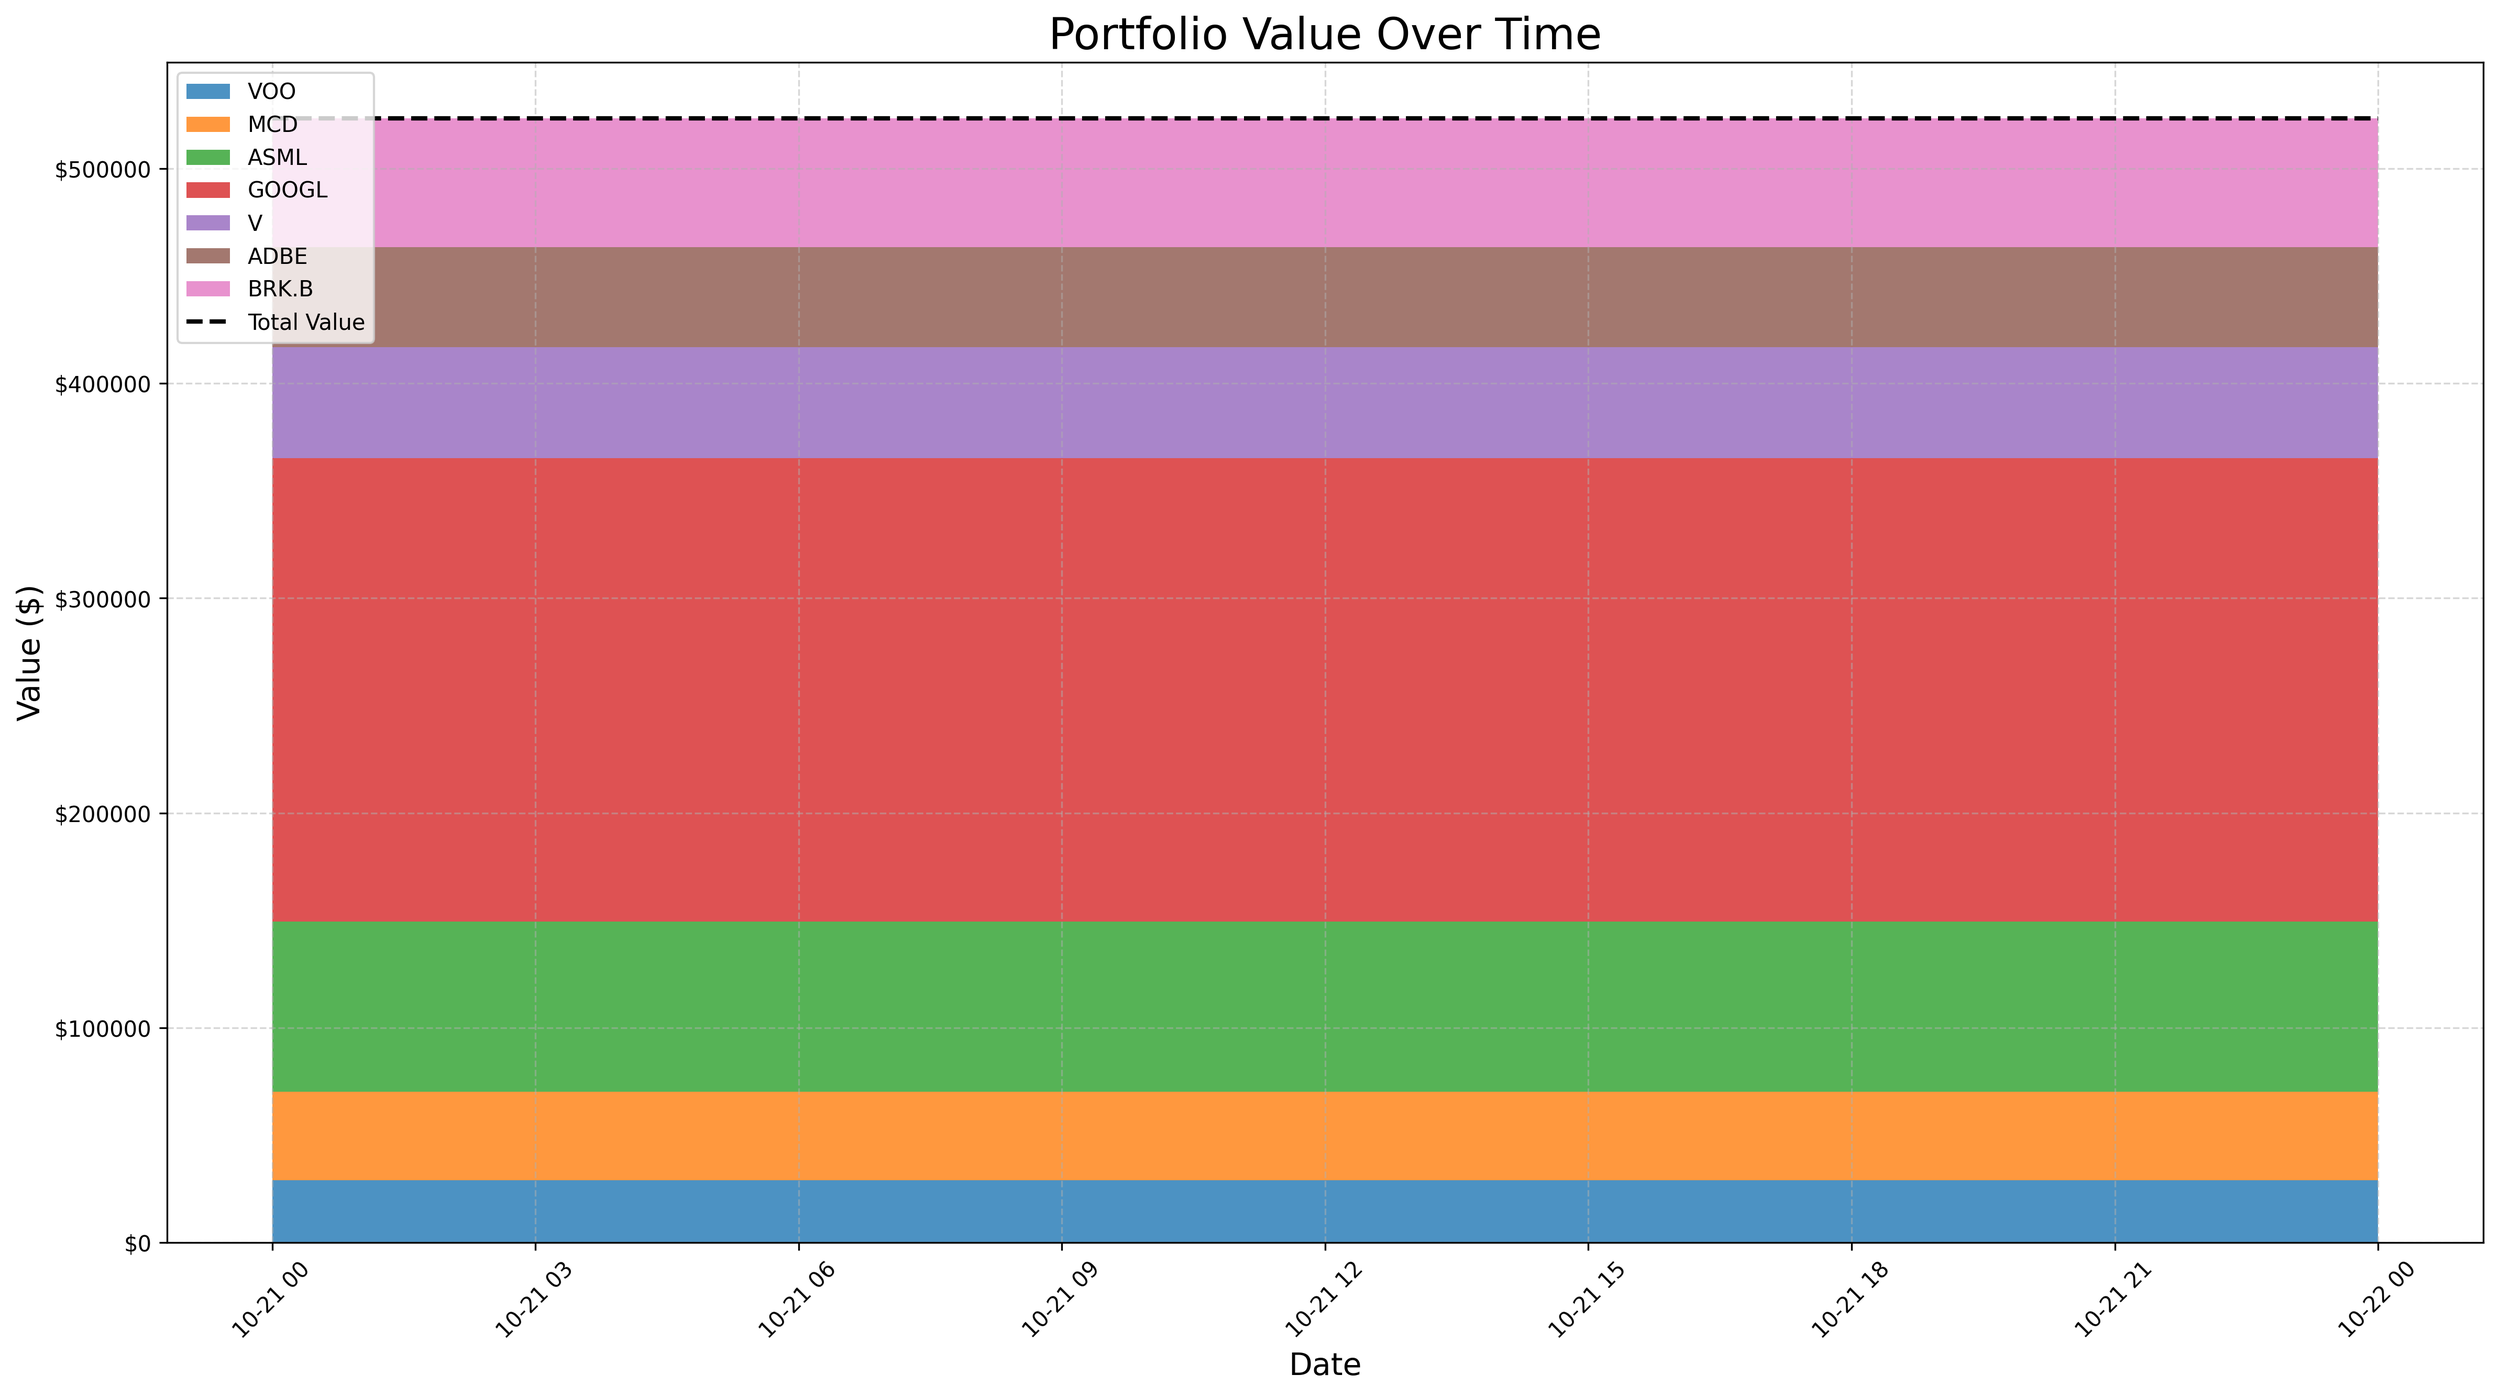
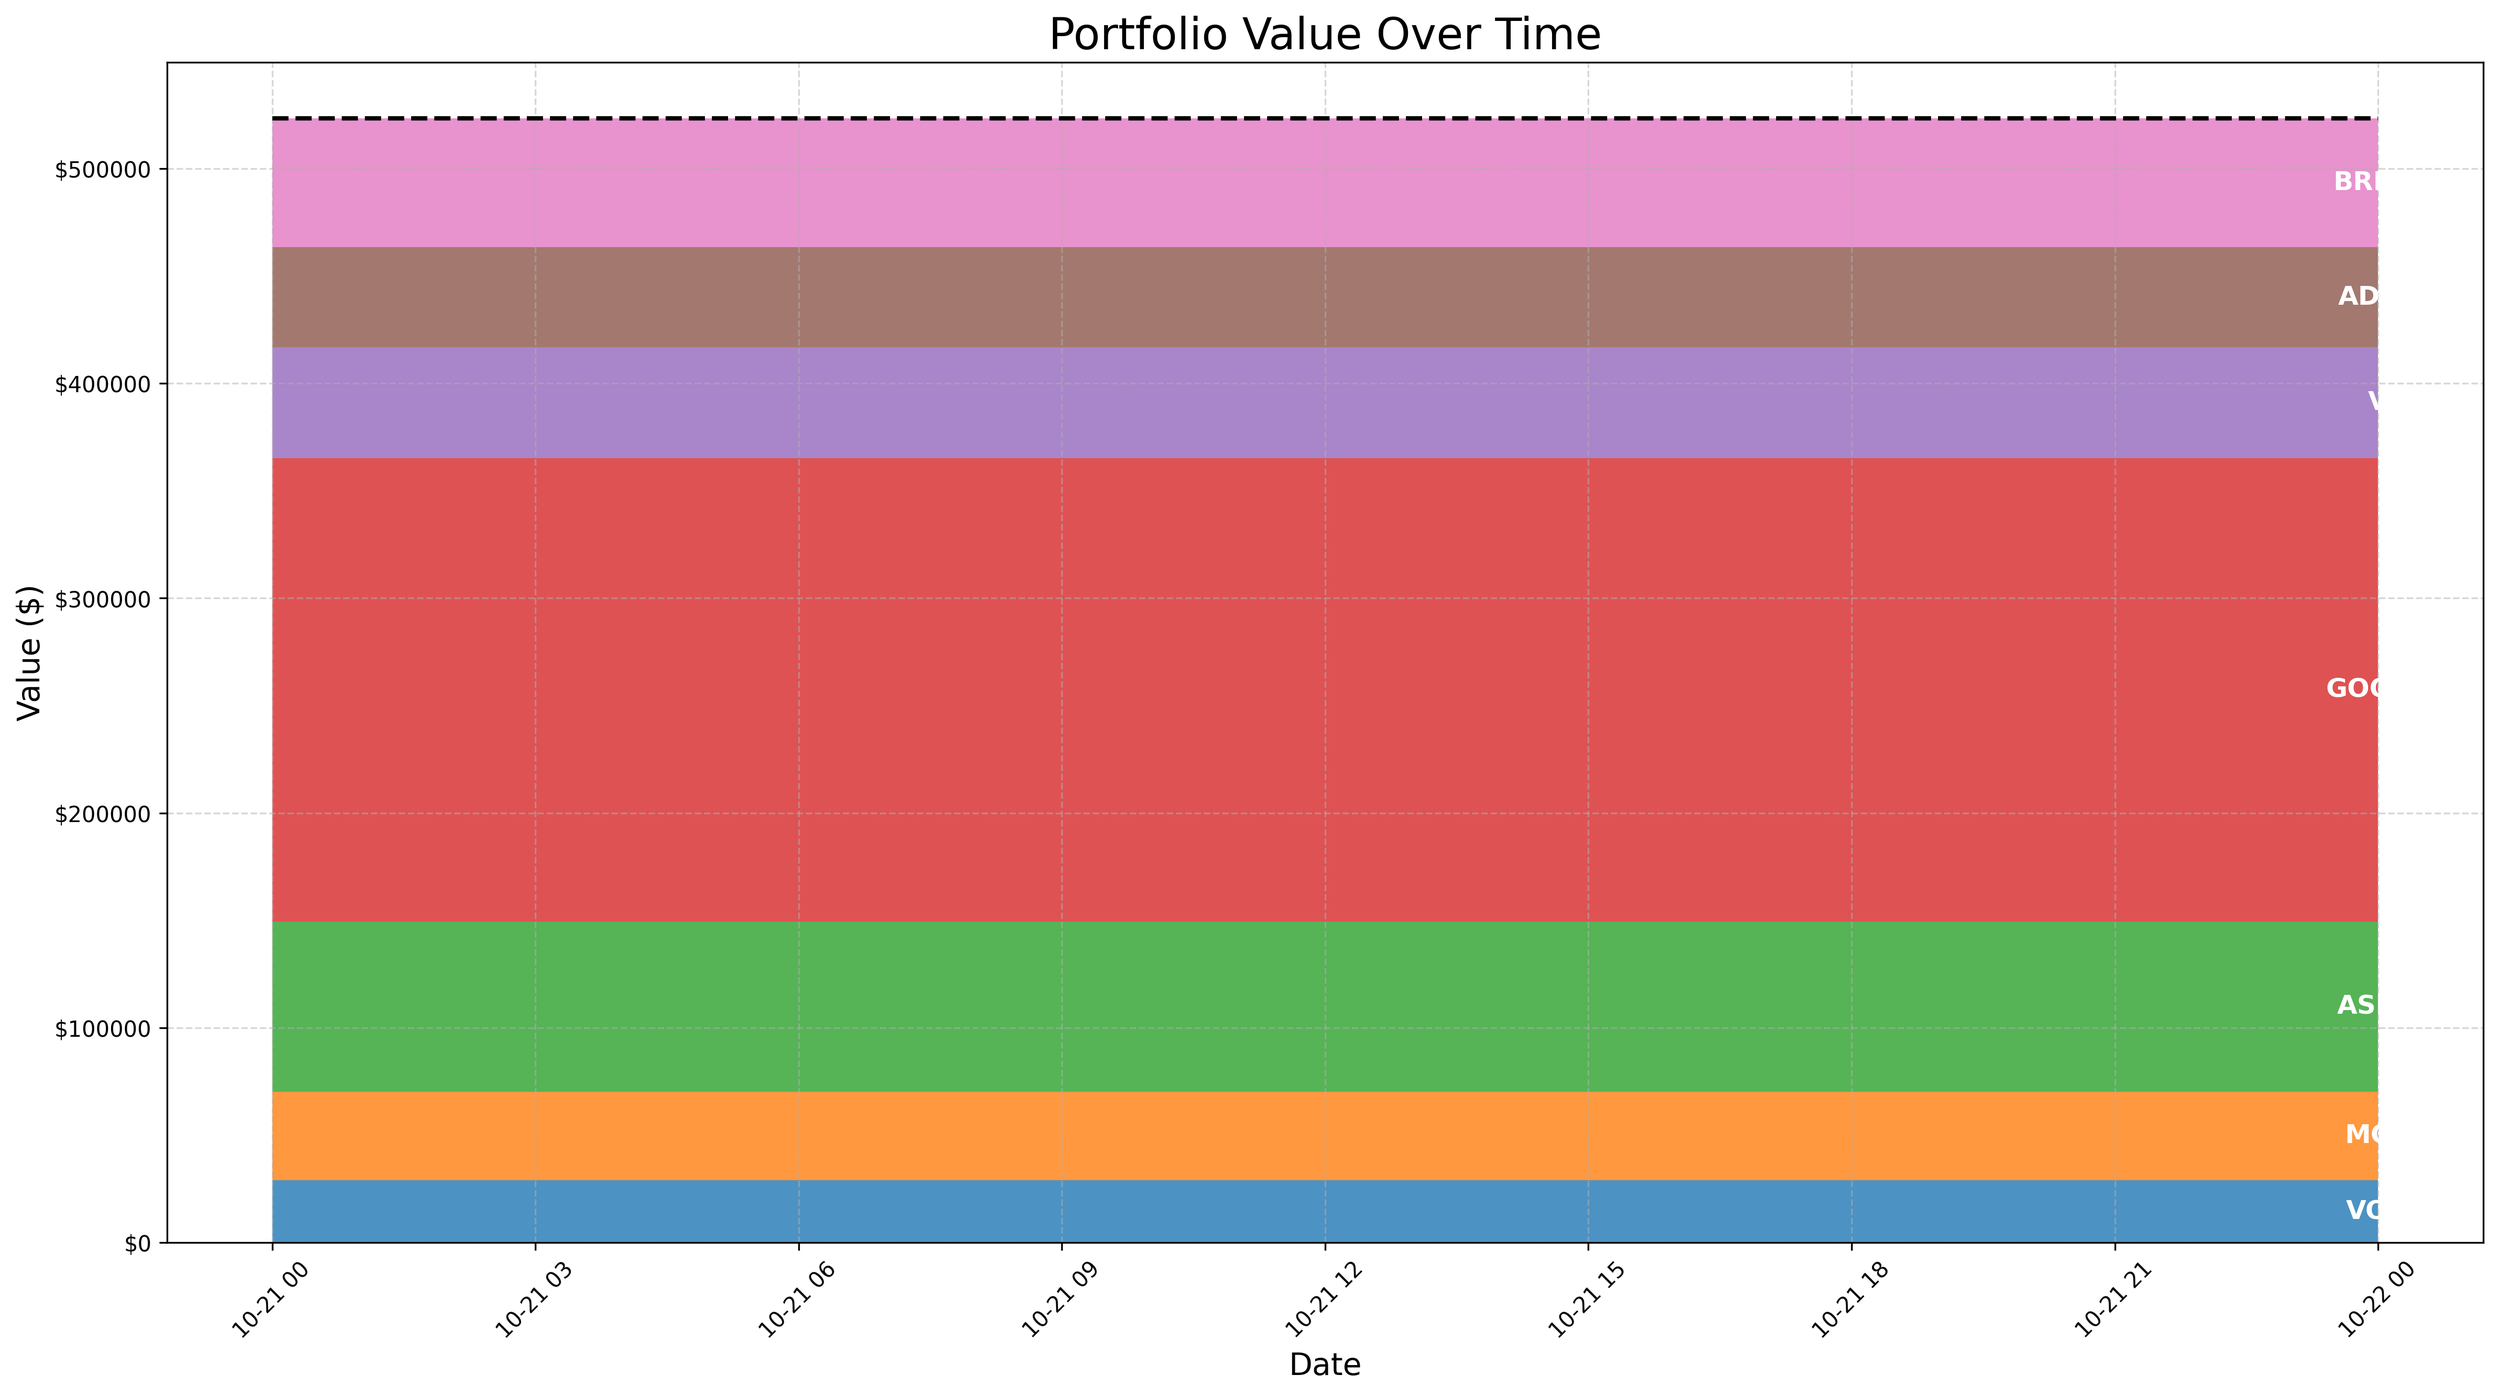
Automated portfolio update for 2025-10-22

diff --git a/main.py b/main.py
@@ -7,13 +7,14 @@ import matplotlib.pyplot as plt
 import matplotlib.ticker as mticker
 import configparser
 import sys
+import numpy as np  # <--- 新增导入 numpy 用于数学计算
 
 
 # ==============================================================================
-# 1. 配置加载模块
+# 1. 配置加载模块 (已更新)
 # ==============================================================================
 
-def load_config() -> Tuple[str, str, str, int, int, List[Tuple[str, float]]]:
+def load_config() -> Tuple[str, str, str, str, int, int, List[Tuple[str, float]]]:
     """
     从 config.ini 文件加载所有配置。
     如果文件不存在，会创建一个默认模板并退出。
@@ -27,7 +28,8 @@ def load_config() -> Tuple[str, str, str, int, int, List[Tuple[str, float]]]:
         default_config['General'] = {
             'api_key': 'YOUR_API_KEY_HERE',
             'history_file': 'portfolio_history.csv',
-            'plot_file': 'portfolio_chart.png'  # <--- 新增默认配置
+            'plot_file': 'portfolio_chart.png',
+            'pie_chart_file': 'portfolio_pie_chart.png'  # <--- 新增: 饼图文件名
         }
         default_config['Portfolio'] = {
             'AAPL': '100',
@@ -47,7 +49,8 @@ def load_config() -> Tuple[str, str, str, int, int, List[Tuple[str, float]]]:
     try:
         api_key = config.get('General', 'api_key')
         history_file = config.get('General', 'history_file')
-        plot_file = config.get('General', 'plot_file')  # <--- 新增: 读取图表文件名
+        plot_file = config.get('General', 'plot_file')
+        pie_chart_file = config.get('General', 'pie_chart_file')  # <--- 新增: 读取饼图文件名
         max_retries = config.getint('Settings', 'max_retries')
         retry_delay = config.getint('Settings', 'retry_delay_seconds')
 
@@ -59,20 +62,19 @@ def load_config() -> Tuple[str, str, str, int, int, List[Tuple[str, float]]]:
             print("错误: 配置文件中的 [Portfolio] 部分为空，请至少添加一只股票。")
             sys.exit()
 
-        # <--- 修改返回内容
-        return api_key, history_file, plot_file, max_retries, retry_delay, portfolio
+        return api_key, history_file, plot_file, pie_chart_file, max_retries, retry_delay, portfolio
 
     except (configparser.NoSectionError, configparser.NoOptionError, ValueError) as e:
         print(f"错误: 配置文件 'config.ini' 格式不正确或缺少必要项: {e}")
         sys.exit()
 
 
-# 在程序开始时加载所有配置
-API_KEY, HISTORY_FILE, PLOT_FILE, MAX_RETRIES, RETRY_DELAY, portfolio = load_config()
+# 在程序开始时加载所有配置 (已更新)
+API_KEY, HISTORY_FILE, PLOT_FILE, PIE_CHART_FILE, MAX_RETRIES, RETRY_DELAY, portfolio = load_config()
 
 
 # ==============================================================================
-# 2. 获取股票价格的核心函数
+# 2. 获取股票价格的核心函数 (无变化)
 # ==============================================================================
 def get_stock_price(ticker: str) -> Union[tuple[float, str], None]:
     url = f'https://www.alphavantage.co/query?function=GLOBAL_QUOTE&symbol={ticker}&apikey={API_KEY}'
@@ -99,7 +101,7 @@ def get_stock_price(ticker: str) -> Union[tuple[float, str], None]:
 
 
 # ==============================================================================
-# 3. 计算总价值并打印结果
+# 3. 计算总价值并打印结果 (无变化)
 # ==============================================================================
 def calculate_portfolio_value() -> tuple[float, dict, Union[str, None]]:
     total_value = 0.0
@@ -139,7 +141,7 @@ def calculate_portfolio_value() -> tuple[float, dict, Union[str, None]]:
 
 
 # ==============================================================================
-# 4. 将历史数据保存到文件
+# 4. 将历史数据保存到文件 (无变化)
 # ==============================================================================
 def save_history(date_to_save: str, value_to_save: float, stock_values: dict):
     if not os.path.exists(HISTORY_FILE):
@@ -165,7 +167,11 @@ def save_history(date_to_save: str, value_to_save: float, stock_values: dict):
         new_data_list = new_line_str.split(',')
         df.loc[date_to_save, 'total_value'] = float(new_data_list[1])
         for i, ticker in enumerate(all_tickers):
-            df.loc[date_to_save, ticker] = float(new_data_list[i + 2])
+            if ticker in df.columns:
+                df.loc[date_to_save, ticker] = float(new_data_list[i + 2])
+            else:  # 新增的 Ticker
+                df[ticker] = 0.0
+                df.loc[date_to_save, ticker] = float(new_data_list[i + 2])
         df.reset_index(inplace=True)
         print(f"\n提示: 日期 {date_to_save} 的数据已存在，将进行覆盖更新。")
     else:
@@ -178,12 +184,11 @@ def save_history(date_to_save: str, value_to_save: float, stock_values: dict):
 
 
 # ==============================================================================
-# 5. 绘制历史价值图表并保存到文件
+# 5. 绘制历史价值图表 (已更新)
 # ==============================================================================
-
 def plot_history_graph(output_filename: str):
     """
-    读取历史数据文件，绘制图表，并将其保存到指定的输出文件。
+    读取历史数据文件，绘制堆叠面积图，并将标签直接写在区域内。
     """
     if not os.path.exists(HISTORY_FILE):
         print("找不到历史数据文件，无法绘制图表。")
@@ -195,10 +200,35 @@ def plot_history_graph(output_filename: str):
         return
 
     stock_columns = [col for col in df.columns if col != 'total_value']
+
     fig, ax = plt.subplots(figsize=(16, 9))
-    ax.stackplot(df.index, [df[col] for col in stock_columns], labels=stock_columns, alpha=0.8)
+
+    # --- 核心修改: 绘制堆叠图，但不生成图例 ---
+    ax.stackplot(df.index, [df[col] for col in stock_columns], alpha=0.8)
+
+    # 绘制总价值曲线
     ax.plot(df.index, df['total_value'], color='black', linewidth=2, linestyle='--', label='Total Value')
-    ax.legend(loc='upper left')
+
+    # --- 核心修改: 在每个颜色区域内添加文字标签 ---
+    y_bottom = np.zeros(len(df.index))
+    mid_point_idx = len(df.index) // 2
+    total_value_at_midpoint = df['total_value'].iloc[mid_point_idx]
+
+    for col in stock_columns:
+        y_values = df[col].values
+        # 计算标签的垂直位置：在该区域垂直方向的中间
+        y_label_pos = y_bottom[mid_point_idx] + y_values[mid_point_idx] / 2
+        x_label_pos = df.index[mid_point_idx]
+
+        # 为了避免标签重叠，只为占比超过3%的区域添加标签
+        if y_values[mid_point_idx] > total_value_at_midpoint * 0.03:
+            ax.text(x_label_pos, y_label_pos, col,
+                    ha='center', va='center', color='white',
+                    fontsize=12, fontweight='bold')
+
+        # 更新下一次堆叠的基线
+        y_bottom += y_values
+
     ax.set_title('Portfolio Value Over Time', fontsize=20)
     ax.set_ylabel('Value ($)', fontsize=14)
     ax.set_xlabel('Date', fontsize=14)
@@ -208,30 +238,89 @@ def plot_history_graph(output_filename: str):
     plt.xticks(rotation=45)
     plt.tight_layout()
 
-    # --- 核心修改 ---
     try:
-        # 将图表保存到文件，而不是显示它
-        # dpi=300 保证了较高的分辨率
-        # bbox_inches='tight' 会自动裁剪空白边缘，让图片更紧凑
         plt.savefig(output_filename, dpi=300, bbox_inches='tight')
-        print(f"\n成功: 图表已保存到文件 '{output_filename}'")
+        print(f"\n成功: 历史趋势图已保存到文件 '{output_filename}'")
     except Exception as e:
-        print(f"\n错误: 保存图表文件时出错: {e}")
+        print(f"\n错误: 保存历史趋势图文件时出错: {e}")
     finally:
-        # 关闭图形，释放内存
         plt.close(fig)
 
 
 # ==============================================================================
-# 6. 主执行逻辑
+# 6. 新增: 绘制当日仓位饼图
 # ==============================================================================
+def plot_pie_chart(stock_values: dict, total_value: float, output_filename: str):
+    """
+    根据当日的各项股票价值，绘制仓位占比饼图。
+    """
+    print(f"正在生成当日仓位饼图...")
 
+    # 过滤掉价值为0或负数的持仓
+    positive_stock_values = {k: v for k, v in stock_values.items() if v > 0}
+    if not positive_stock_values or total_value <= 0:
+        print("没有有效的持仓数据可用于生成饼图。")
+        return
+
+    tickers = list(positive_stock_values.keys())
+    sizes = list(positive_stock_values.values())
+
+    fig, ax = plt.subplots(figsize=(12, 9))
+
+    # --- 核心实现: 绘制饼图，并在扇区内添加 Ticker 和百分比 ---
+
+    # 1. 先只画出饼图的基本结构
+    wedges, _ = ax.pie(sizes, startangle=90, colors=plt.cm.viridis(np.linspace(0, 1, len(sizes))))
+
+    # 2. 循环遍历每个扇区，手动添加自定义标签
+    for i, p in enumerate(wedges):
+        # 计算每个扇区中间点的角度
+        ang = (p.theta2 - p.theta1) / 2. + p.theta1
+
+        # 根据角度计算标签的 (x, y) 坐标，位置在半径的70%处
+        radius = 0.7
+        x = radius * np.cos(np.deg2rad(ang))
+        y = radius * np.sin(np.deg2rad(ang))
+
+        # 准备标签文字：股票代码 + 百分比
+        ticker = tickers[i]
+        percentage = (sizes[i] / total_value) * 100
+        label_text = f"{ticker}\n{percentage:.1f}%"
+
+        # 在计算出的位置上添加文字
+        ax.text(x, y, label_text,
+                ha='center', va='center',  # 水平和垂直居中
+                color='white',  # 文字颜色
+                fontweight='bold',  # 字体加粗
+                fontsize=11)  # 字体大小
+
+    ax.set_title('Portfolio Composition (Today)', fontsize=20)
+    ax.axis('equal')  # 保证饼图是正圆形
+
+    try:
+        plt.savefig(output_filename, dpi=300, bbox_inches='tight')
+        print(f"成功: 当日仓位饼图已保存到文件 '{output_filename}'")
+    except Exception as e:
+        print(f"\n错误: 保存仓位饼图文件时出错: {e}")
+    finally:
+        plt.close(fig)
+
+
+# ==============================================================================
+# 7. 主执行逻辑 (已更新)
+# ==============================================================================
 if __name__ == "__main__":
     final_total_value, individual_stock_values, data_date = calculate_portfolio_value()
+
     if final_total_value > 0 and data_date is not None:
+        # 保存历史记录
         save_history(data_date, final_total_value, individual_stock_values)
-        # 调用函数绘制图表，并传入从配置中读取的文件名
+
+        # 绘制历史趋势图
         plot_history_graph(PLOT_FILE)
+
+        # 新增: 绘制当日仓位饼图
+        plot_pie_chart(individual_stock_values, final_total_value, PIE_CHART_FILE)
+
     elif data_date is None:
         print("\n错误: 未能从API获取到有效的交易日期，无法保存和绘图。")
-

diff --git a/run.py b/run.py
@@ -102,30 +102,24 @@ def run_scheduled_task():
 # 4. 主服务循环
 # ==============================================================================
 if __name__ == "__main__":
-    print("--- 测试模式：立即执行一次任务 ---")
+    print("\n自动化服务已启动。")
+    print(f"将在每天美东时间 {SCHEDULED_HOUR}:00 左右运行任务。")
+    print("按 Ctrl+C 停止服务。")
+    last_run_date = None
     run_scheduled_task()
-    print("\n--- 测试完成 ---")
 
-    # 测试完成后，如果您想让它作为后台服务运行，
-    # 请删除或注释掉上面的三行，并取消下面代码的注释。
-
-    # print("\n自动化服务已启动。")
-    # print(f"将在每天美东时间 {SCHEDULED_HOUR}:00 左右运行任务。")
-    # print("按 Ctrl+C 停止服务。")
-    # last_run_date = None
-    #
-    # while True:
-    #     try:
-    #         now_et = datetime.now(TIMEZONE)
-    #         if now_et.hour == SCHEDULED_HOUR and now_et.date() != last_run_date:
-    #             run_scheduled_task()
-    #             last_run_date = now_et.date()
-    #             print(f"\n任务已执行。等待下一个调度周期...")
-    #         time.sleep(60)
-    #     except KeyboardInterrupt:
-    #         print("\n服务已手动停止。")
-    #         break
-    #     except Exception as e:
-    #         print(f"\n发生意外错误: {e}")
-    #         print("服务将在60秒后继续...")
-    #         time.sleep(60)
+    while True:
+        try:
+            now_et = datetime.now(TIMEZONE)
+            if now_et.hour == SCHEDULED_HOUR and now_et.date() != last_run_date:
+                run_scheduled_task()
+                last_run_date = now_et.date()
+                print(f"\n任务已执行。等待下一个调度周期...")
+            time.sleep(60)
+        except KeyboardInterrupt:
+            print("\n服务已手动停止。")
+            break
+        except Exception as e:
+            print(f"\n发生意外错误: {e}")
+            print("服务将在60秒后继续...")
+            time.sleep(60)
